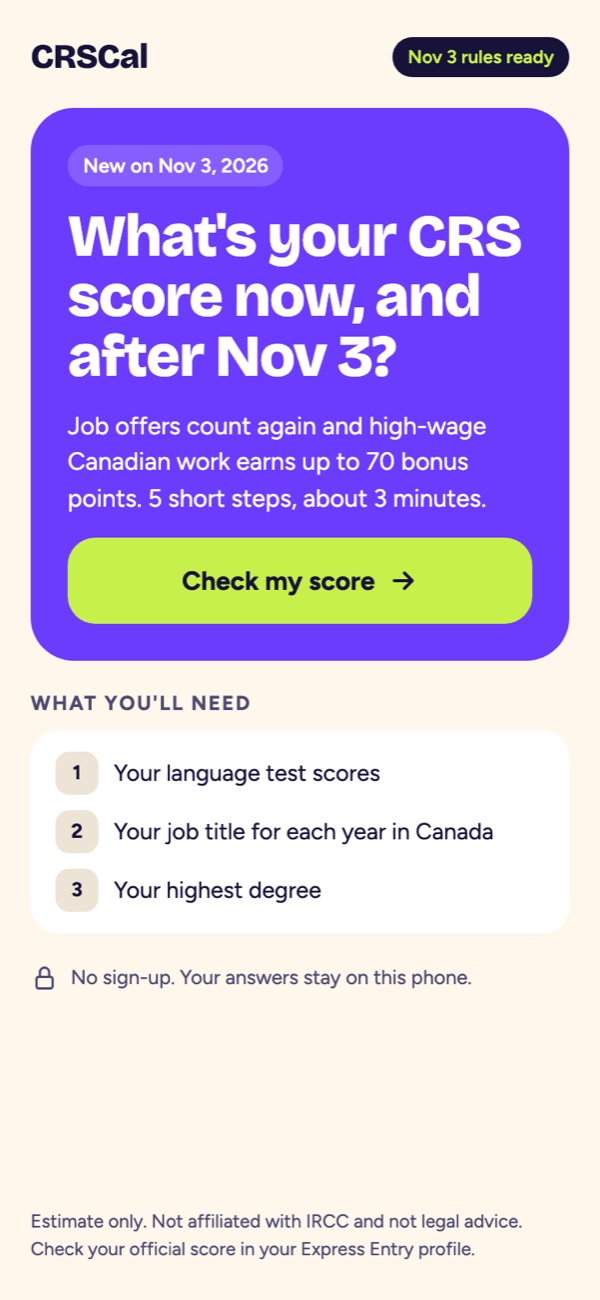
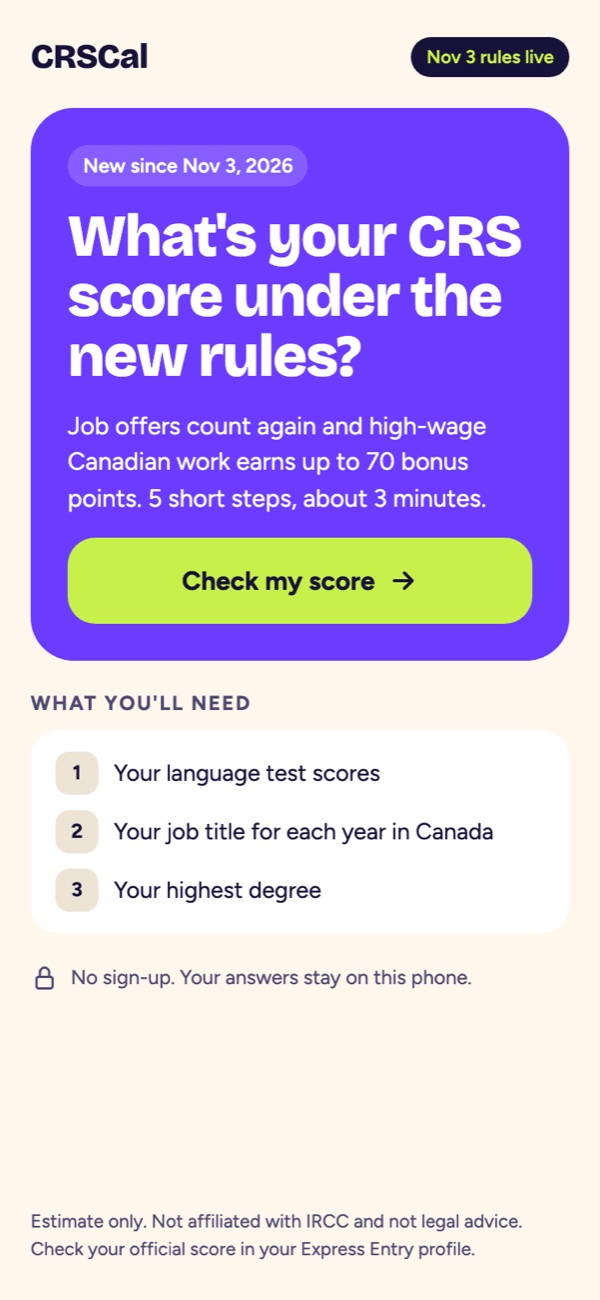
content: CRS Calculator now the Nov 3 rules are live; match site facts to the master resume
CRS case study, roadmap card and carousel screenshots updated to the live app, with
30-day traffic. From the master resume: 20 AI search queries, Project Coordinator to
Aug 2025, and timeline bars for Bill Splitter, CSM Assistant and Reddit Pain-Point Miner.

Changed region(s): [[0.12, 0.1846, 0.84, 0.3077], [0.21, 0.0923, 0.51, 0.1538], [0.63, 0.0308, 0.93, 0.0615]]

diff --git a/content/projects.ts b/content/projects.ts
@@ -4,7 +4,7 @@ export const projects: Project[] = [
   {
     slug: "crs-calculator",
     title: "CRS Calculator",
-    summary: "Express Entry scores, today’s rules vs Nov 2026.",
+    summary: "Express Entry scores under the Nov 2026 rules, every point explained.",
     status: "live",
     column: "shipped",
     stack: "Next.js, TypeScript, Tailwind CSS",
@@ -26,7 +26,7 @@ export const projects: Project[] = [
     links: { live: "https://billsplitter.yashchanne.com" },
     timeline: {
       start: { year: 2026, quarter: 1 },
-      end: { year: 2026, quarter: 1 },
+      end: { year: 2026, quarter: 4 },
       label: "live",
     },
     hasCaseStudy: true,
@@ -41,8 +41,8 @@ export const projects: Project[] = [
     links: {},
     timeline: {
       start: { year: 2026, quarter: 1 },
-      end: { year: 2026, quarter: 1 },
-      label: "built",
+      end: { year: 2026, quarter: 4 },
+      label: "in daily use",
     },
     hasCaseStudy: true,
   },
@@ -56,7 +56,7 @@ export const projects: Project[] = [
     links: {},
     timeline: {
       start: { year: 2026, quarter: 1 },
-      end: { year: 2026, quarter: 1 },
+      end: { year: 2026, quarter: 2 },
       label: "built",
     },
     hasCaseStudy: false,

diff --git a/tests/timeline.test.tsx b/tests/timeline.test.tsx
@@ -28,9 +28,9 @@ describe("timeline", () => {
     expect(screen.getByTestId("bar-customer-success-manager").style.gridColumn).toBe("7 / 13");
   });
 
-  it("shows Bill Splitter as live in Q1 2026", () => {
+  it("shows Bill Splitter as live from Q1 to Q4 2026", () => {
     const bar = screen.getByTestId("bar-bill-splitter");
-    expect(bar.style.gridColumn).toBe("9 / 10");
+    expect(bar.style.gridColumn).toBe("9 / 13");
     expect(bar).toHaveTextContent("live");
   });
 
@@ -38,8 +38,8 @@ describe("timeline", () => {
     expect(screen.queryByText("Coverage-nav")).toBeNull();
   });
 
-  it("shows Reddit Pain-Point Miner in Q1 2026", () => {
-    expect(screen.getByTestId("bar-reddit-pain-point-miner").style.gridColumn).toBe("9 / 10");
+  it("shows Reddit Pain-Point Miner from Q1 to Q2 2026", () => {
+    expect(screen.getByTestId("bar-reddit-pain-point-miner").style.gridColumn).toBe("9 / 11");
   });
 
   it("places a single-quarter project in its own column", () => {

diff --git a/content/specs.ts b/content/specs.ts
@@ -13,7 +13,7 @@ export const specs: SpecEntry[] = [
   {
     problem:
       "The new AI search matched street names letter for letter, so “main st” missed “Main St” and quietly returned incomplete answers.",
-    spec: "Found while testing the AI search with 19 plain-English queries; reported it and suggested case-insensitive matching.",
+    spec: "Found while testing the AI search with 20 plain-English queries; reported it and suggested case-insensitive matching.",
     shipped: "Q2 2026",
   },
   {

diff --git a/content/timeline.ts b/content/timeline.ts
@@ -8,7 +8,7 @@ export const pastRoles: TimelineEntry[] = [
     timeline: {
       start: { year: 2024, quarter: 2 },
       end: { year: 2025, quarter: 3 },
-      label: "Jun 2024 – Sep 2025",
+      label: "Jun 2024 – Aug 2025",
     },
   },
 ];

diff --git a/content/case-studies/crs-calculator.md b/content/case-studies/crs-calculator.md
@@ -5,25 +5,25 @@ role: "PM + builder"
 stack: "Next.js, TypeScript, Tailwind CSS"
 links:
   live: "https://crscal.yashchanne.com"
-tldr: "Canada’s Express Entry rules change on Nov 3, 2026. CRSCal shows your CRS score under today’s rules and from Nov 3 side by side, explains where every point comes from, and shows the biggest ways to raise it. No sign-up, and your answers never leave your phone."
+tldr: "Canada’s Express Entry rules changed on Nov 3, 2026. CRSCal launched before the change to compare the old and new scores side by side. Now it shows your CRS score under the new rules, explains where every point comes from, and shows the biggest ways to raise it. No sign-up, and your answers never leave your phone."
 screenshots:
   - src: "/work/crs-calculator/1.jpg"
     caption: "No sign-up, about 3 minutes"
   - src: "/work/crs-calculator/2.jpg"
     caption: "Pick your job, see the bonus"
   - src: "/work/crs-calculator/3.jpg"
-    caption: "Today vs. from Nov 3"
+    caption: "Your score, every point explained"
   - src: "/work/crs-calculator/4.jpg"
     caption: "Biggest ways to raise it"
 ---
 
 ## Problem
 
-The Express Entry rules change on Nov 3, 2026, when a Labour Market Integration factor adds a high-wage work bonus and new job offer points. For many people in the pool, their score is about to move. I wanted to know exactly how mine would change, and I couldn’t find a simple way to see both numbers side by side, so I built one.
+The Express Entry rules changed on Nov 3, 2026, when a Labour Market Integration factor added a high-wage work bonus and new job offer points. For many people in the pool, their score was about to move. I wanted to know exactly how mine would change, and I couldn’t find a simple way to see both numbers side by side, so I built one before the rules took effect.
 
 ## Users and jobs to be done
 
-- **Express Entry candidate:** see my estimated score today and from Nov 3, 2026, side by side.
+- **Express Entry candidate:** see my estimated score under the rules in force since Nov 3, 2026. Before that date, the site compared old and new scores side by side.
 - **Candidate with a skilled job:** check whether my job qualifies for the new high-wage bonus (up to +70), by searching my job title or NOC code.
 - **Candidate planning next steps:** see where every point comes from, and which changes would raise my score most, with “what if” sliders.
 
@@ -31,7 +31,7 @@ The Express Entry rules change on Nov 3, 2026, when a Labour Market Integration 
 
 | Decision | Why |
 |---|---|
-| Two rule sets, scored side by side | The rules change on Nov 3, 2026, so the same profile has two valid scores. |
+| Two rule sets, scored side by side before Nov 3, 2026 | Until the rules changed, the same profile had two valid scores. Since Nov 3 the site shows the score under the rules in force, with a link to IRCC’s page on what changed. |
 | Rules only from official sources | IRCC’s official pages, the official high-wage occupation list and Statistics Canada’s NOC 2021 list, so every number can be traced. |
 | Scoring engine built and tested before the website | 132 automated tests check the scoring before every update goes live; the site imports the tested engine. |
 | Tips come from re-running the engine | Each point gain is computed, not hand-written, so tips cannot drift from the scoring rules. |
@@ -44,8 +44,8 @@ The Express Entry rules change on Nov 3, 2026, when a Labour Market Integration 
 
 - **Live** at crscal.yashchanne.com
 - **132** automated tests run before every update
-- **2,849** visitors and **33,880** page views in one week (Oct 16 to 23, 2026)
-- **551 vs 511:** the reference test profile scores 551 from Nov 3, 2026 and 511 today
+- **3,809** visitors and **43,248** page views in 30 days (Oct to Nov 2026), with a 25% bounce rate
+- **551 vs 511:** the reference test profile scores 551 under the new rules and scored 511 under the old ones
 
 ## What I'd do next
 
